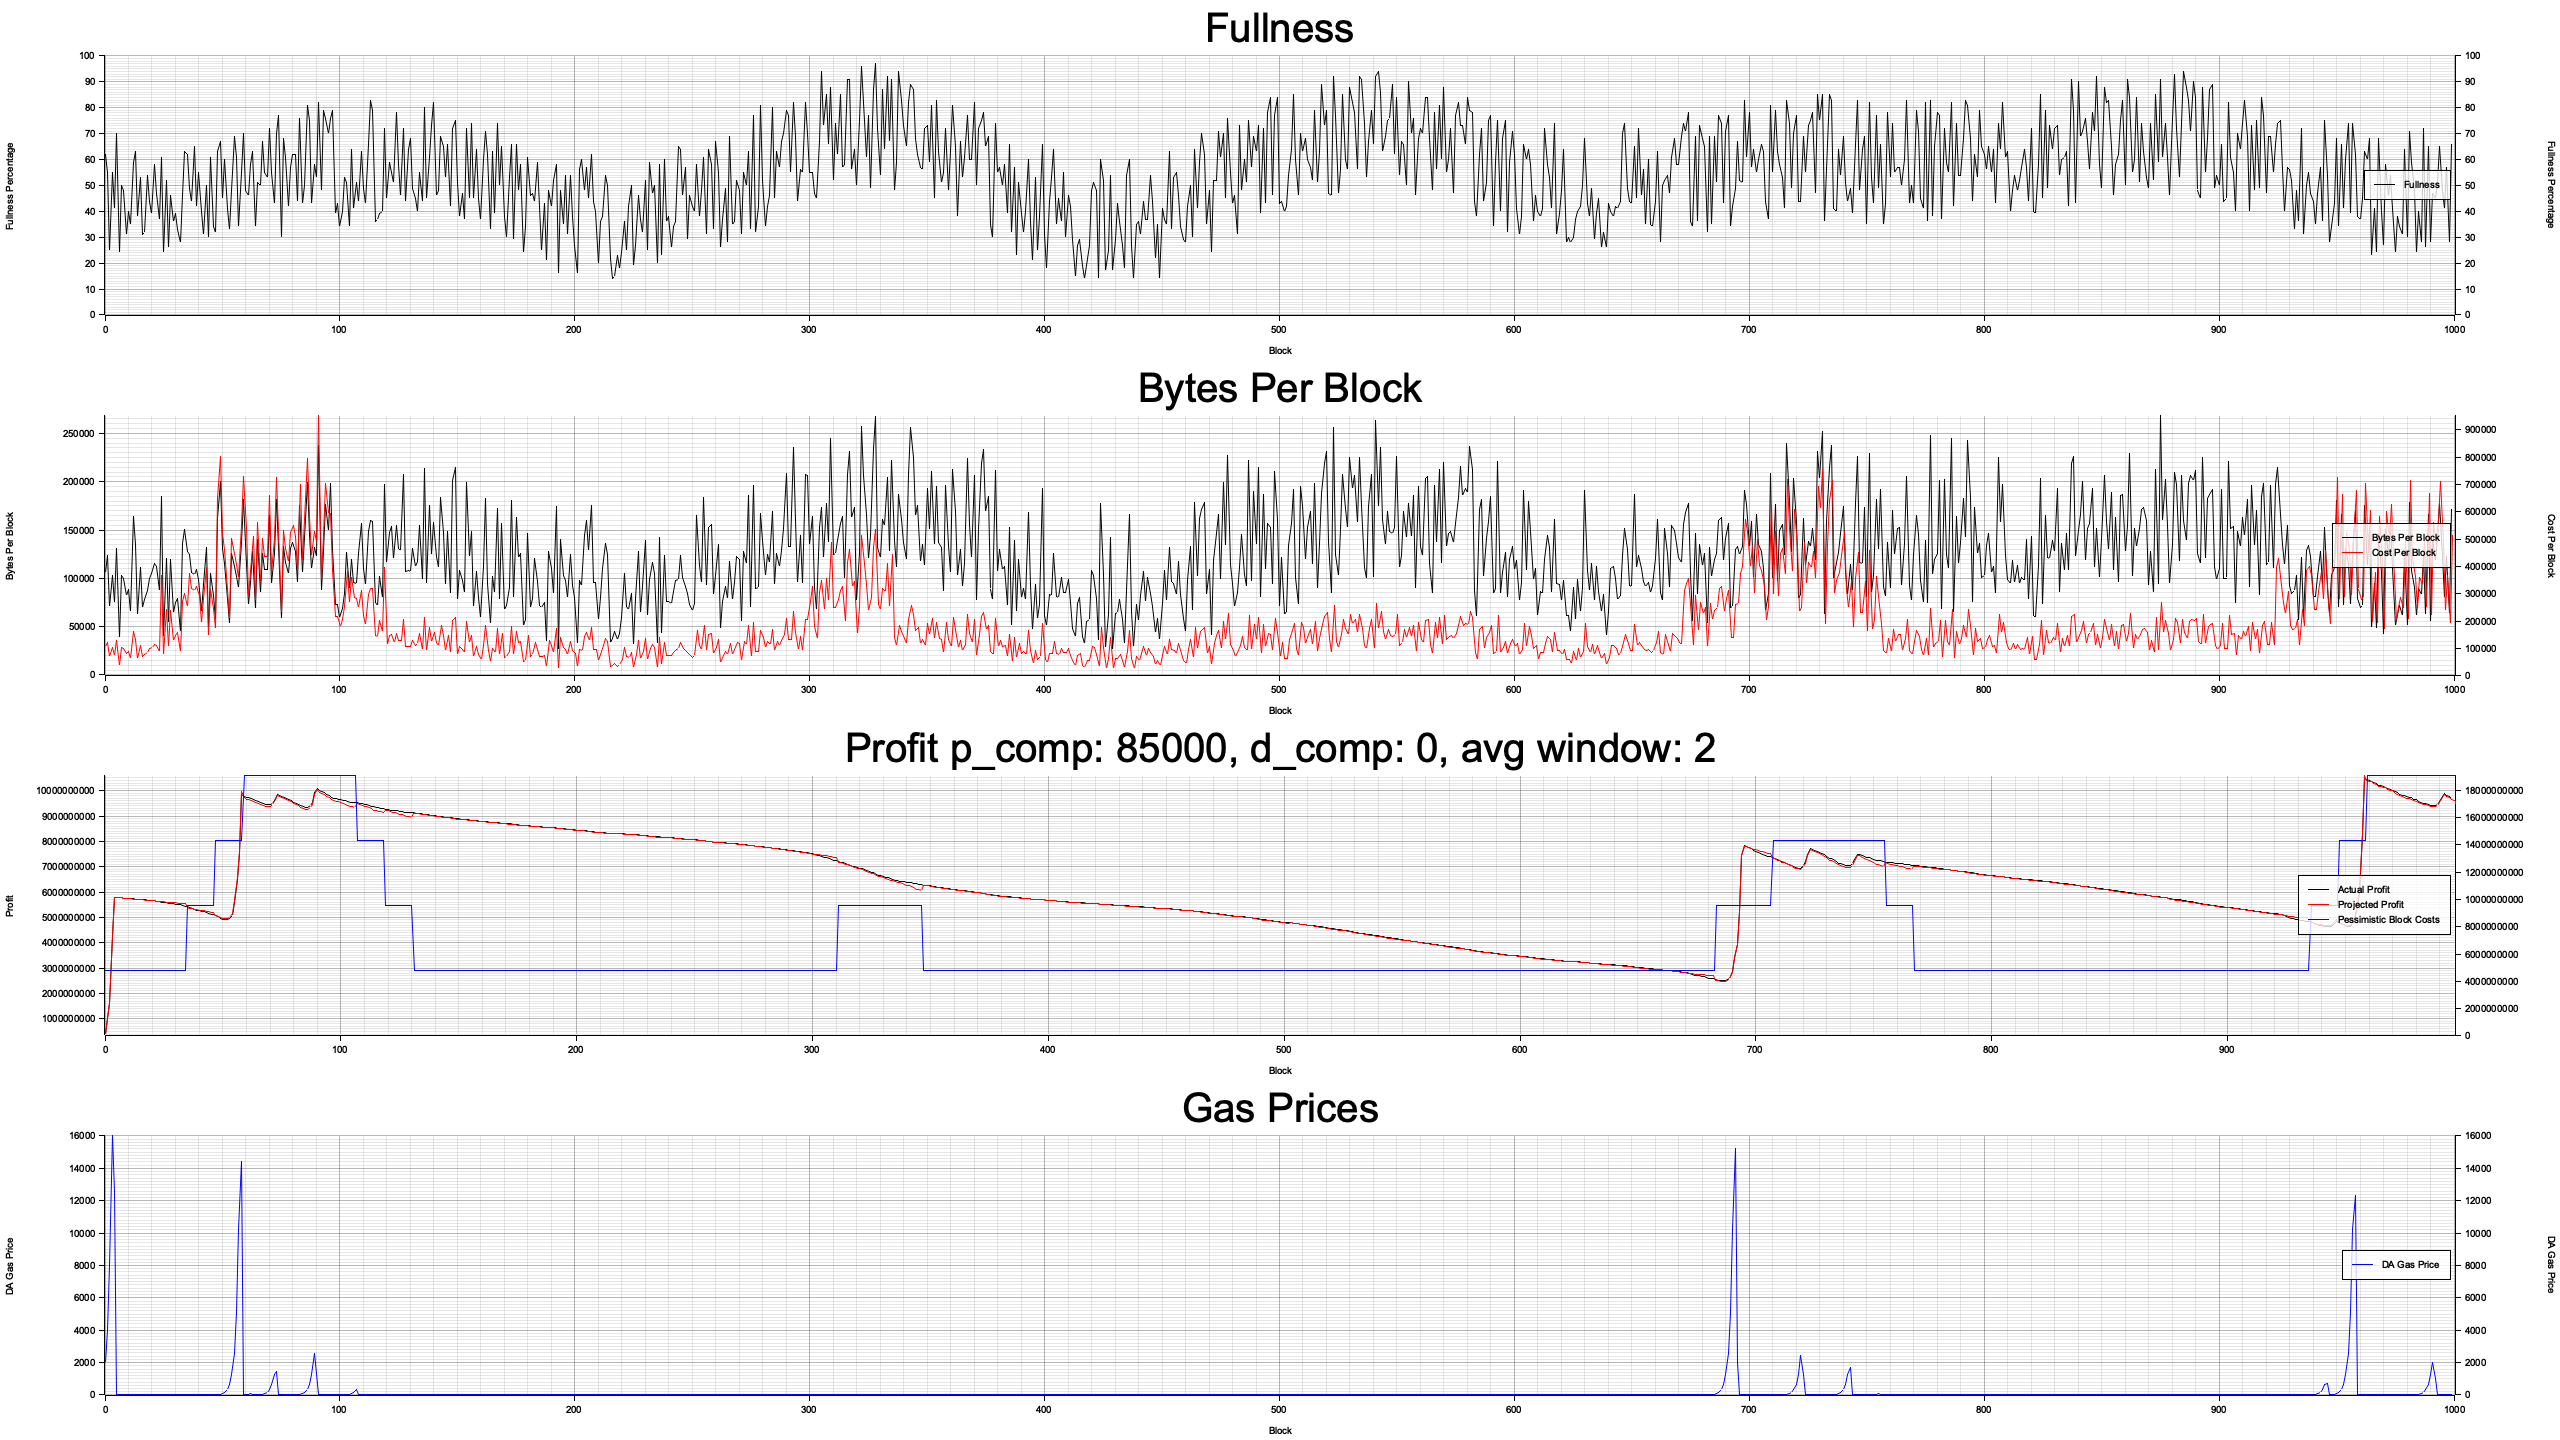
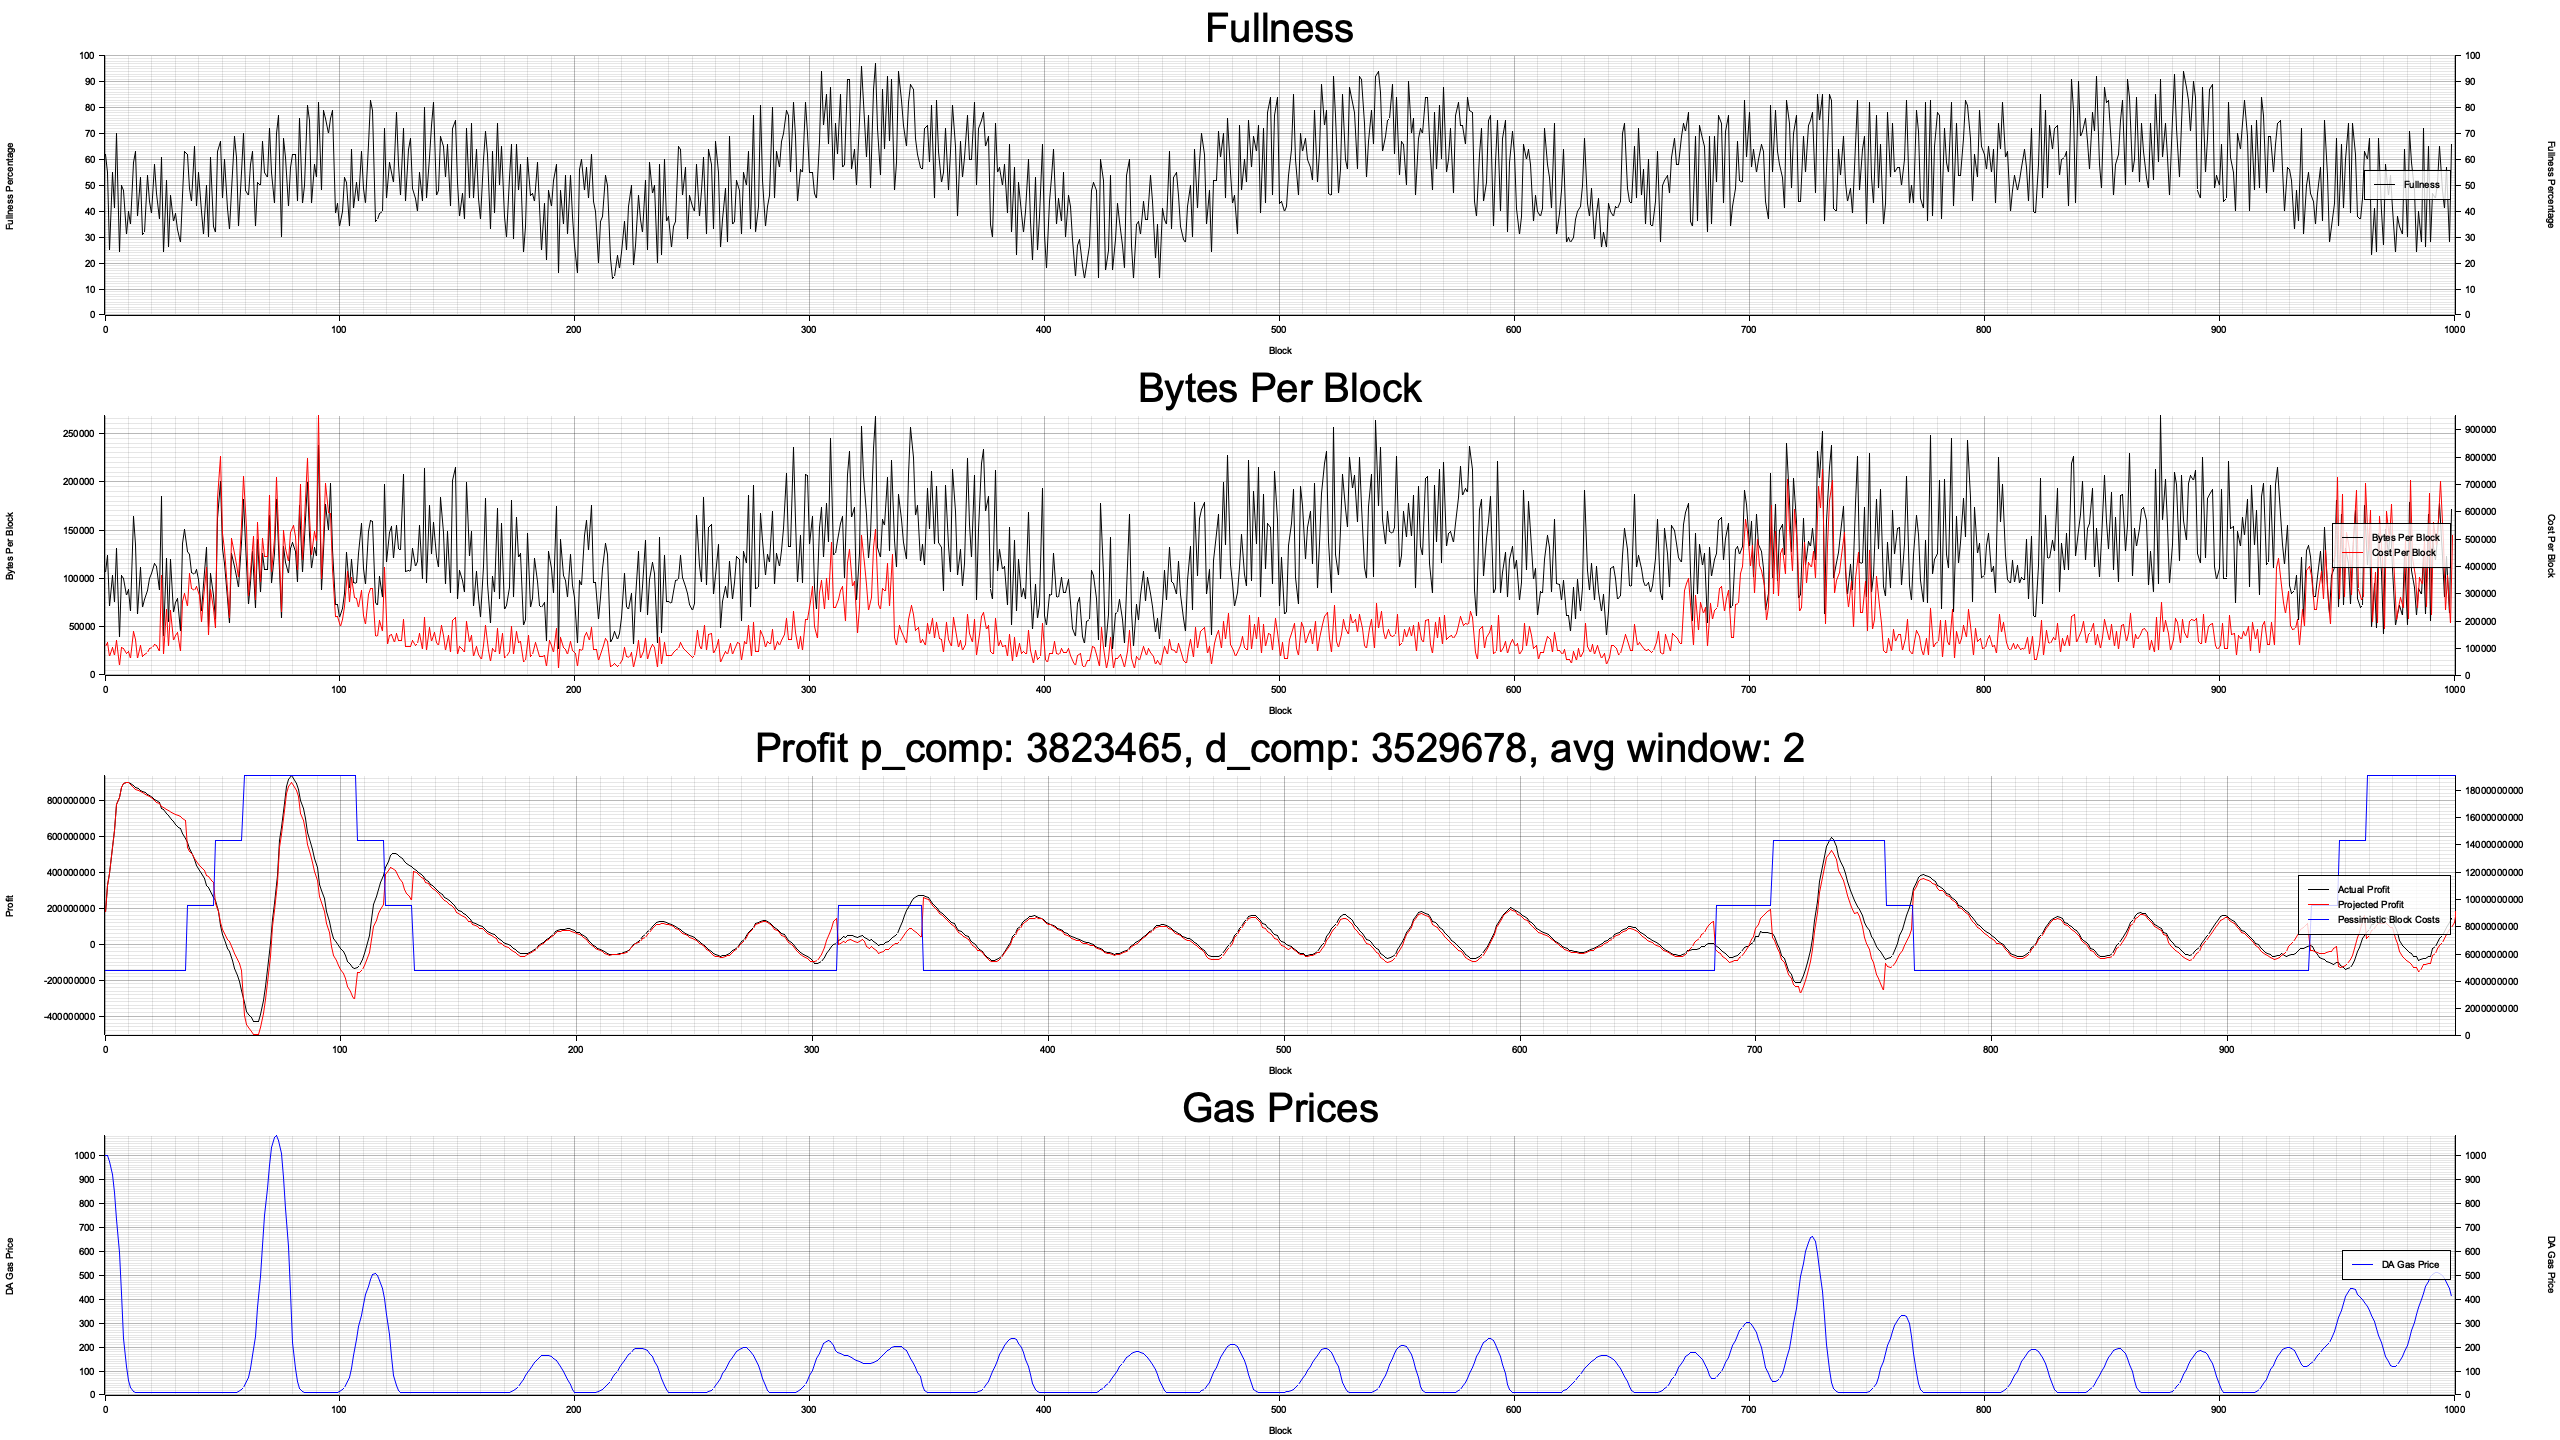
Fix a bit of the prediction bugginess

Changed region(s): [[0.0, 0.5, 0.9688, 0.7188], [0.0312, 0.7812, 0.9688, 0.9688]]

diff --git a/crates/fuel-gas-price-algorithm/gas-price-analysis/src/simulation.rs b/crates/fuel-gas-price-algorithm/gas-price-analysis/src/simulation.rs
@@ -73,7 +73,7 @@ pub fn run_simulation(
         l2_block_height: 0,
         l2_block_fullness_threshold_percent: 50,
         exec_gas_price_change_percent: 2,
-        max_da_gas_price_change_percent: 100,
+        max_da_gas_price_change_percent: 50,
         total_da_rewards: 0,
         da_recorded_block_height: 0,
         latest_da_cost_per_byte: 10000,
@@ -114,37 +114,37 @@ pub fn run_simulation(
         }
 
         if let Some(mut da_blocks) = da_block.clone() {
-            println!("-------------------");
+            // println!("-------------------");
             let mut total_costs = updater.latest_known_total_da_cost;
             for mut block in &mut da_blocks {
                 block.block_cost *= gas_price_factor;
                 total_costs += block.block_cost;
                 actual_costs.push(total_costs);
                 let cost_per_bytes = block.block_cost / block.block_bytes;
-                println!(
-                    "height: {}, bytes: {}, cost: {}, cost_per_bytes: {}",
-                    block.height,
-                    pretty(block.block_bytes),
-                    pretty(block.block_cost),
-                    pretty(cost_per_bytes)
-                );
+                // println!(
+                //     "height: {}, bytes: {}, cost: {}, cost_per_bytes: {}",
+                //     block.height,
+                //     pretty(block.block_bytes),
+                //     pretty(block.block_cost),
+                //     pretty(cost_per_bytes)
+                // );
             }
             updater.update_da_record_data(da_blocks.to_owned()).unwrap();
-            println!(
-                "updated cost per bytes: {}",
-                updater.latest_da_cost_per_byte
-            );
+            // println!(
+            //     "updated cost per bytes: {}",
+            //     updater.latest_da_cost_per_byte
+            // );
             assert_eq!(total_costs, updater.projected_total_da_cost);
             assert_eq!(total_costs, updater.latest_known_total_da_cost);
         }
-        println!("block bytes: {}", bytes);
-        println!(
-            "height: {}, latest: {}, projected: {}, added: {}",
-            height,
-            pretty(updater.latest_known_total_da_cost),
-            pretty(updater.projected_total_da_cost),
-            pretty(bytes * updater.latest_da_cost_per_byte / gas_price_factor)
-        );
+        // println!("block bytes: {}", bytes);
+        // println!(
+        //     "height: {}, latest: {}, projected: {}, added: {}",
+        //     height,
+        //     pretty(updater.latest_known_total_da_cost),
+        //     pretty(updater.projected_total_da_cost),
+        //     pretty(bytes * updater.latest_da_cost_per_byte / gas_price_factor)
+        // );
         // Update L2 block
         updater
             .update_l2_block_data(

diff --git a/crates/fuel-gas-price-algorithm/src/v1.rs b/crates/fuel-gas-price-algorithm/src/v1.rs
@@ -87,19 +87,20 @@ impl AlgorithmV1 {
         self.assemble_price(da_change)
     }
 
-    fn calculate_avg_profit(&self, block_bytes: u64) -> i64 {
-        let extra_for_this_block =
-            block_bytes.saturating_mul(self.latest_da_cost_per_byte);
-        let pessimistic_cost = self.total_costs.saturating_add(extra_for_this_block);
-        let projected_profit =
-            (self.total_rewards as i64).saturating_sub(pessimistic_cost as i64);
-        projected_profit
-            .saturating_add(
-                self.avg_profit
-                    .saturating_mul((self.avg_window as i64).saturating_sub(1)),
-            )
-            .checked_div(self.avg_window as i64)
-            .unwrap_or(self.avg_profit)
+    fn calculate_avg_profit(&self, _block_bytes: u64) -> i64 {
+        // let extra_for_this_block =
+        //     block_bytes.saturating_mul(self.latest_da_cost_per_byte);
+        // let pessimistic_cost = self.total_costs.saturating_add(extra_for_this_block);
+        // let projected_profit =
+        //     (self.total_rewards as i64).saturating_sub(pessimistic_cost as i64);
+        // projected_profit
+        //     .saturating_add(
+        //         self.avg_profit
+        //             .saturating_mul((self.avg_window as i64).saturating_sub(1)),
+        //     )
+        //     .checked_div(self.avg_window as i64)
+        //     .unwrap_or(self.avg_profit)
+        self.avg_profit
     }
 
     fn p(&self, projected_profit_avg: i64) -> i64 {
@@ -240,8 +241,10 @@ impl AlgorithmUpdaterV1 {
             let last_profit = (self.total_da_rewards as i64)
                 .saturating_sub(self.projected_total_da_cost as i64);
             self.update_profit_avg(last_profit);
-            let new_projected_da_cost =
-                block_bytes.saturating_mul(self.latest_da_cost_per_byte);
+            let new_projected_da_cost = block_bytes
+                .saturating_mul(self.latest_da_cost_per_byte)
+                .saturating_div(self.da_gas_price_factor);
+            // println!("new block cost: {}", new_projected_da_cost);
             self.projected_total_da_cost = self
                 .projected_total_da_cost
                 .saturating_add(new_projected_da_cost);

diff --git a/crates/fuel-gas-price-algorithm/gas-price-analysis/src/optimisation.rs b/crates/fuel-gas-price-algorithm/gas-price-analysis/src/optimisation.rs
@@ -1,15 +1,15 @@
 use super::*;
 
 fn da_pid_factors(size: usize) -> Vec<(i64, i64)> {
-    // let mut rng = StdRng::seed_from_u64(10902);
-    // (0usize..size)
-    //     .map(|_| {
-    //         let p = rng.gen_range(0..10_000_000);
-    //         let d = rng.gen_range(0..10_000_000);
-    //         (p, d)
-    //     })
-    //     .collect()
-    vec![(85_000, 0)]
+    let mut rng = StdRng::seed_from_u64(10902);
+    (0usize..size)
+        .map(|_| {
+            let p = rng.gen_range(0..10_000_000);
+            let d = rng.gen_range(0..10_000_000);
+            (p, d)
+        })
+        .collect()
+    // vec![(85_000, 0)]
 }
 
 pub fn naive_optimisation(
@@ -21,7 +21,9 @@ pub fn naive_optimisation(
         .map(|(p, d)| (run_simulation(*p, *d, avg_window), (*p, *d, avg_window)))
         .min_by_key(|(results, _)| {
             let SimulationResults { actual_profit, .. } = results;
-            actual_profit.iter().map(|p| p.abs()).sum::<i64>()
+            let err = actual_profit.iter().map(|p| p.abs()).sum::<i64>();
+            // println!("Error: {}", err);
+            err
         })
         .unwrap()
 }
